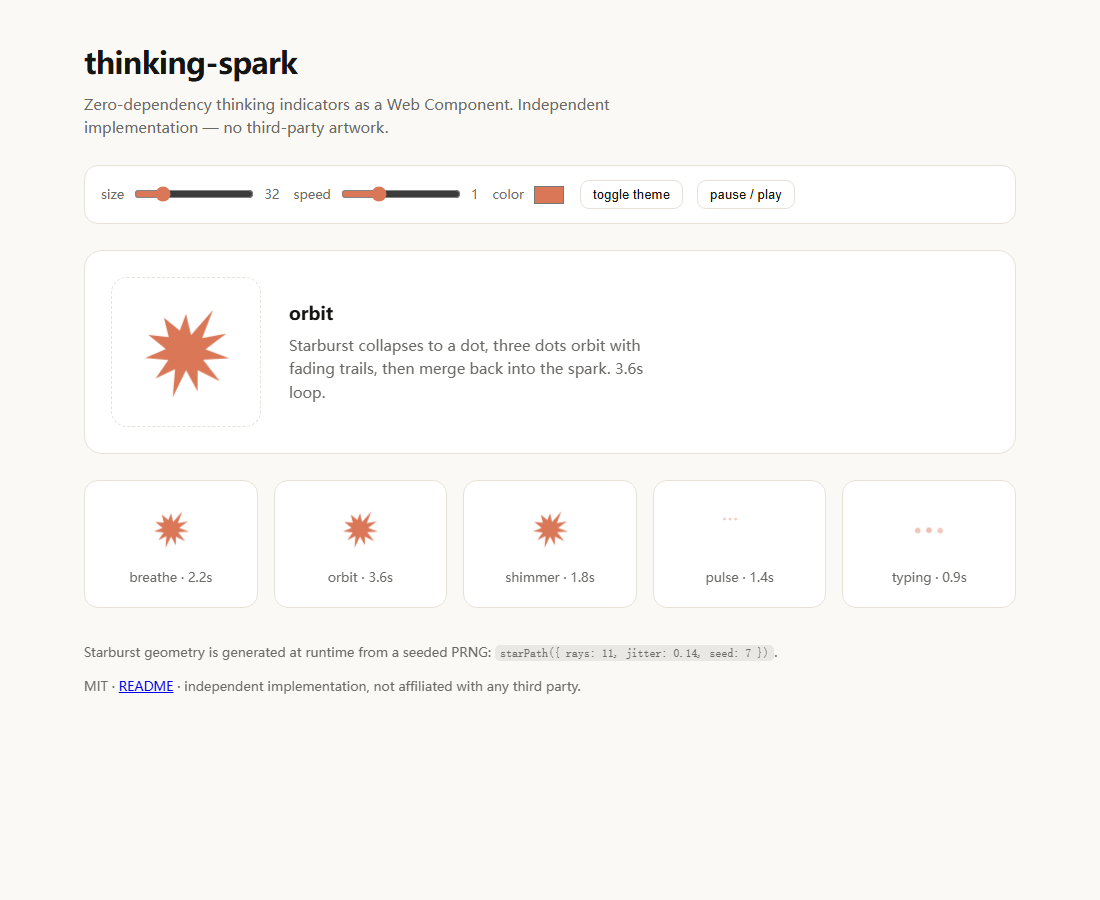
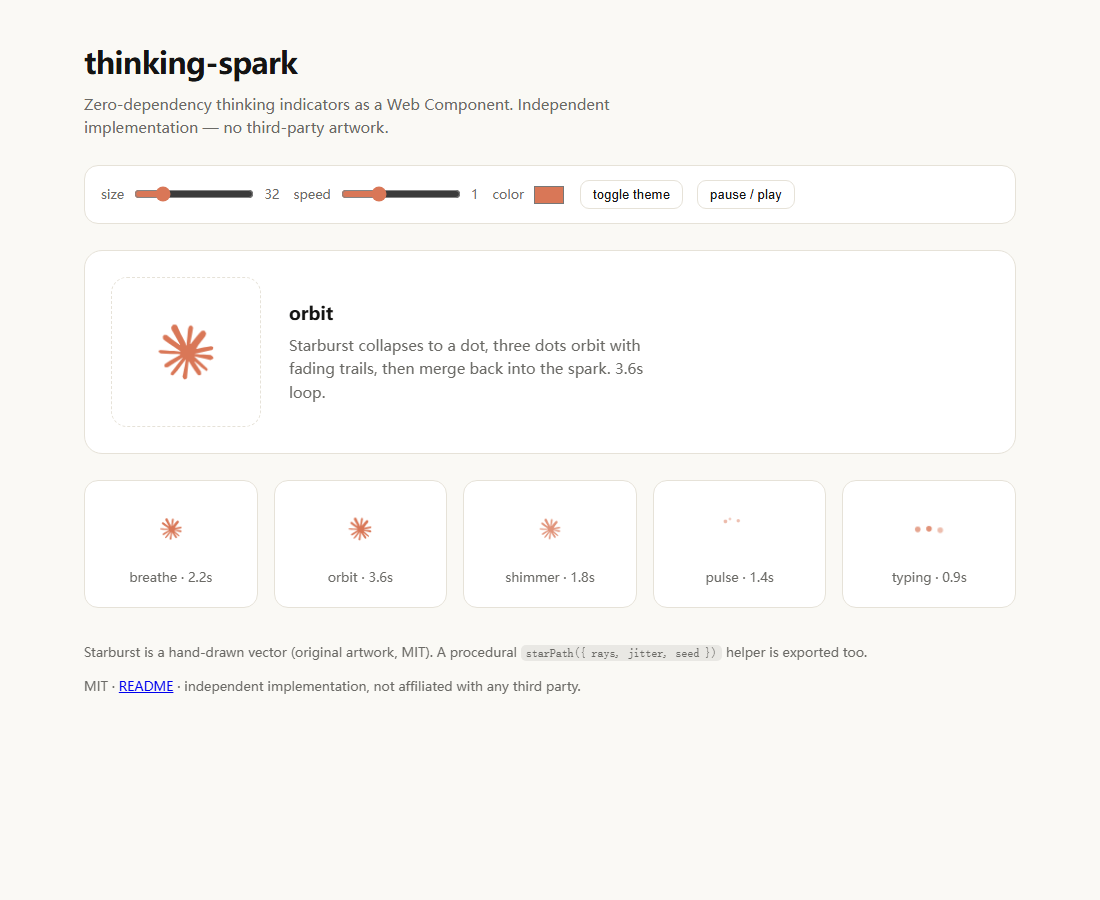
feat: use hand-drawn starburst and original orbit timeline

diff --git a/src/thinking-spark.js b/src/thinking-spark.js
@@ -1,11 +1,14 @@
 /**
  * <thinking-spark> — zero-dependency animated "thinking" indicators.
+ * Starburst artwork: original vector by the thinking-spark author (MIT).
  * Independent implementation. Not affiliated with Anthropic.
- * MIT License.
  */
 
 const VARIANTS = ["breathe", "orbit", "shimmer", "pulse", "typing"];
 const SVG_NS = "http://www.w3.org/2000/svg";
+
+// Hand-drawn 30-unit starburst, placed with scale(3.05) translate(-12 -12) at (64,64).
+const DRAWN_STAR = "m4.7144 15.9555 4.7174-2.6471.079-.2307-.079-.1275h-.2307l-.7893-.0486-2.6956-.0729-2.3375-.0971-2.2646-.1214-.5707-.1215-.5343-.7042.0546-.3522.4797-.3218.686.0608 1.5179.1032 2.2767.1578 1.6514.0972 2.4468.255h.3886l.0546-.1579-.1336-.0971-.1032-.0972L6.973 9.8356l-2.55-1.6879-1.3356-.9714-.7225-.4918-.3643-.4614-.1578-1.0078.6557-.7225.8803.0607.2246.0607.8925.686 1.9064 1.4754 2.4893 1.8336.3643.3035.1457-.1032.0182-.0728-.164-.2733-1.3539-2.4467-1.445-2.4893-.6435-1.032-.17-.6194c-.0607-.255-.1032-.4674-.1032-.7285L6.287.1335 6.6997 0l.9957.1336.419.3642.6192 1.4147 1.0018 2.2282 1.5543 3.0296.4553.8985.2429.8318.091.255h.1579v-.1457l.1275-1.706.2368-2.0947.2307-2.6957.0789-.7589.3764-.9107.7468-.4918.5828.2793.4797.686-.0668.4433-.2853 1.8517-.5586 2.9021-.3643 1.9429h.2125l.2429-.2429.9835-1.3053 1.6514-2.0643.7286-.8196.85-.9046.5464-.4311h1.0321l.759 1.1293-.34 1.1657-1.0625 1.3478-.8804 1.1414-1.2628 1.7-.7893 1.36.0729.1093.1882-.0183 2.8535-.607 1.5421-.2794 1.8396-.3157.8318.3886.091.3946-.3278.8075-1.967.4857-2.3072.4614-3.4364.8136-.0425.0304.0486.0607 1.5482.1457.6618.0364h1.621l3.0175.2247.7892.522.4736.6376-.079.4857-1.2142.6193-1.6393-.3886-3.825-.9107-1.3113-.3279h-.1822v.1093l1.0929 1.0686 2.0035 1.8092 2.5075 2.3314.1275.5768-.3218.4554-.34-.0486-2.2039-1.6575-.85-.7468-1.9246-1.621h-.1275v.17l.4432.6496 2.3436 3.5214.1214 1.0807-.17.3521-.6071.2125-.6679-.1214-1.3721-1.9246L14.38 17.959l-1.1414-1.9428-.1397.079-.674 7.2552-.3156.3703-.7286.2793-.6071-.4614-.3218-.7468.3218-1.4753.3886-1.9246.3157-1.53.2853-1.9004.17-.6314-.0121-.0425-.1397.0182-1.4328 1.9672-2.1796 2.9446-1.7243 1.8456-.4128.164-.7164-.3704.0667-.6618.4008-.5889 2.386-3.0357 1.4389-1.882.929-1.0868-.0062-.1579h-.0546l-6.3385 4.1164-1.1293.1457-.4857-.4554.0608-.7467.2307-.2429 1.9064-1.3114Z";
 
 function mulberry32(seed) {
   let a = seed >>> 0;
@@ -17,15 +20,6 @@ function mulberry32(seed) {
   };
 }
 
-/**
- * Build a procedural starburst path (100x100 box, centred at 50,50).
- * @param {object} [opts]
- * @param {number} [opts.rays=11]     number of long rays
- * @param {number} [opts.inner=0.46]  inner radius ratio
- * @param {number} [opts.jitter=0.14] length jitter (0 keeps it perfectly regular)
- * @param {number} [opts.seed=7]      PRNG seed
- * @param {number} [opts.outer=46]    outer radius
- */
 export function starPath(opts = {}) {
   const rays = opts.rays == null ? 11 : opts.rays;
   const inner = opts.inner == null ? 0.46 : opts.inner;
@@ -49,14 +43,11 @@ function el(name, attrs) {
   return node;
 }
 
-function arcPath(fromDeg, toDeg, radius) {
-  const rad = function (d) { return ((d - 90) * Math.PI) / 180; };
-  const x1 = 50 + Math.cos(rad(fromDeg)) * radius;
-  const y1 = 50 + Math.sin(rad(fromDeg)) * radius;
-  const x2 = 50 + Math.cos(rad(toDeg)) * radius;
-  const y2 = 50 + Math.sin(rad(toDeg)) * radius;
-  const large = Math.abs(toDeg - fromDeg) > 180 ? 1 : 0;
-  return "M" + x1.toFixed(2) + " " + y1.toFixed(2) + "A" + radius + " " + radius + " 0 " + large + " 1 " + x2.toFixed(2) + " " + y2.toFixed(2);
+const KEY_TIMES = [0, 0.08, 0.12, 0.2, 0.245, 0.27, 0.34, 0.72, 0.78, 0.815, 0.84, 0.91, 0.97, 1];
+const ORBIT_DUR = 3600;
+
+function keys(values, render) {
+  return values.map(function (v, i) { return Object.assign({ offset: KEY_TIMES[i] }, render(v)); });
 }
 
 const STYLE = [
@@ -73,8 +64,8 @@ const STYLE = [
   ":host([hidden]) { display: none; }",
   "svg { display: block; width: 100%; height: 100%; overflow: visible; }",
   ".fill { fill: currentColor; }",
-  ".stroke { fill: none; stroke: currentColor; stroke-linecap: round; }",
-  "[transform-box] { transform-box: view-box; transform-origin: 50% 50%; }",
+  ".stroke-tail { fill: none; stroke: url(#ts-tail); stroke-width: 4.5; stroke-linecap: round; opacity: 0.86; }",
+  ".spin, .grow, .star { transform-box: view-box; transform-origin: 64px 64px; }",
   ".hide { display: none; }",
 ].join("\n");
 
@@ -100,31 +91,20 @@ class ThinkingSpark extends HTMLElementBase {
     const n = Number(this.getAttribute("speed"));
     return Number.isFinite(n) && n > 0 ? n : 1;
   }
-  get paused() {
-    return this.hasAttribute("paused");
-  }
+  get paused() { return this.hasAttribute("paused"); }
 
   connectedCallback() {
     if (!this._ready) this._build();
     this._applyAttrs();
     this._play();
   }
-
-  disconnectedCallback() {
-    this._stop();
-  }
+  disconnectedCallback() { this._stop(); }
 
   attributeChangedCallback(name) {
     if (!this._ready) return;
-    if (name === "variant") {
-      this._applyAttrs();
-      this._play();
-      return;
-    }
+    if (name === "variant") { this._applyAttrs(); this._play(); return; }
     this._applyAttrs();
-    if (name === "paused") {
-      for (const a of this._anims) this.paused ? a.pause() : a.play();
-    }
+    if (name === "paused") for (const a of this._anims) this.paused ? a.pause() : a.play();
   }
 
   _build() {
@@ -132,40 +112,54 @@ class ThinkingSpark extends HTMLElementBase {
     const style = document.createElement("style");
     style.textContent = STYLE;
 
-    const svg = el("svg", { viewBox: "0 0 100 100", role: "img", focusable: "false" });
+    const svg = el("svg", { viewBox: "0 0 128 128", role: "img", focusable: "false" });
     this._svg = svg;
 
-    const star = el("g", { "class": "star", "transform-box": "fill-box" });
-    star.appendChild(el("path", { "class": "fill", d: starPath({ seed: 7 }) }));
+    const defs = el("defs");
+    const grad = el("linearGradient", { id: "ts-tail", x1: -18, y1: -11, x2: 0, y2: -21, gradientUnits: "userSpaceOnUse" });
+    grad.appendChild(el("stop", { offset: 0, "stop-color": "currentColor", "stop-opacity": 0 }));
+    grad.appendChild(el("stop", { offset: 0.55, "stop-color": "currentColor", "stop-opacity": 0.21 }));
+    grad.appendChild(el("stop", { offset: 1, "stop-color": "currentColor", "stop-opacity": 0.72 }));
+    defs.appendChild(grad);
+    svg.appendChild(defs);
+
+    const star = el("g", { "class": "star" });
+    const starInner = el("g", { transform: "translate(64 64)" });
+    starInner.appendChild(el("path", { "class": "fill", d: DRAWN_STAR, transform: "scale(3.05) translate(-12 -12)" }));
+    star.appendChild(starInner);
     this._star = star;
 
-    const ring = el("g", { "class": "ring", "transform-box": "fill-box" });
+    const dot = el("circle", { "class": "fill", cx: 64, cy: 64, r: 4 });
+    this._dot = dot;
+
+    const ring = el("g", { "class": "ring" });
     for (let i = 0; i < 12; i++) {
       const a = (i / 12) * Math.PI * 2;
-      ring.appendChild(el("circle", { "class": "fill", cx: (50 + Math.cos(a) * 39).toFixed(2), cy: (50 + Math.sin(a) * 39).toFixed(2), r: 2.1 }));
+      ring.appendChild(el("circle", { "class": "fill", cx: (64 + Math.cos(a) * 50).toFixed(2), cy: (64 + Math.sin(a) * 50).toFixed(2), r: 2.7 }));
     }
     this._ring = ring;
 
-    const orbit = el("g", { "class": "orbit", "transform-box": "fill-box" });
+    const orbit = el("g", { "class": "orbit" });
+    const grow = el("g", { "class": "grow" });
+    const spin = el("g", { "class": "spin" });
     for (let i = 0; i < 3; i++) {
-      const a0 = i * 120;
-      orbit.appendChild(el("path", { "class": "stroke tail", d: arcPath(a0 - 64, a0 - 6, 34), "stroke-width": 3, opacity: 0.35 }));
+      const arm = el("g", { transform: "translate(64 64) rotate(" + i * 120 + ")" });
+      arm.appendChild(el("path", { "class": "stroke-tail", d: "M -17.9,-10.7 A 20.7,20.7 0 0 1 0,-20.7" }));
+      arm.appendChild(el("circle", { "class": "fill", cx: 0, cy: -20.7, r: 4.2 }));
+      spin.appendChild(arm);
     }
-    for (let i = 0; i < 3; i++) {
-      const a = ((i * 120 - 90) * Math.PI) / 180;
-      orbit.appendChild(el("circle", { "class": "fill odot", cx: (50 + Math.cos(a) * 34).toFixed(2), cy: (50 + Math.sin(a) * 34).toFixed(2), r: 5.4 }));
-    }
+    grow.appendChild(spin);
+    orbit.appendChild(grow);
     this._orbit = orbit;
-
-    const dot = el("circle", { "class": "fill dot", cx: 50, cy: 50, r: 9 });
-    this._dot = dot;
+    this._grow = grow;
+    this._spin = spin;
 
     const pulse = el("g", { "class": "pulse" });
-    for (let i = 0; i < 3; i++) pulse.appendChild(el("circle", { "class": "fill pdot", cx: 22 + i * 28, cy: 50, r: 7 }));
+    for (let i = 0; i < 3; i++) pulse.appendChild(el("circle", { "class": "fill pdot", cx: 28 + i * 36, cy: 64, r: 9 }));
     this._pulse = pulse;
 
     const typing = el("g", { "class": "typing" });
-    for (let i = 0; i < 3; i++) typing.appendChild(el("circle", { "class": "fill tdot", cx: 22 + i * 28, cy: 54, r: 7 }));
+    for (let i = 0; i < 3; i++) typing.appendChild(el("circle", { "class": "fill tdot", cx: 28 + i * 36, cy: 69, r: 9 }));
     this._typing = typing;
 
     svg.append(star, ring, orbit, dot, pulse, typing);
@@ -188,20 +182,16 @@ class ThinkingSpark extends HTMLElementBase {
       case "shimmer": show.star = show.ring = true; break;
       case "pulse": show.pulse = true; break;
       case "typing": show.typing = true; break;
-      default: show.star = true; break;
+      default: show.star = show.dot = true; break;
     }
     const map = [["star", this._star], ["ring", this._ring], ["orbit", this._orbit], ["dot", this._dot], ["pulse", this._pulse], ["typing", this._typing]];
     for (const pair of map) pair[1].classList.toggle("hide", !show[pair[0]]);
   }
 
-  _stop() {
-    for (const a of this._anims) a.cancel();
-    this._anims = [];
-  }
+  _stop() { for (const a of this._anims) a.cancel(); this._anims = []; }
 
   _animate(node, keyframes, options) {
-    const opts = Object.assign({ easing: "ease-in-out" }, options);
-    const anim = node.animate(keyframes, opts);
+    const anim = node.animate(keyframes, Object.assign({ easing: "linear" }, options));
     anim.playbackRate = this.speed;
     if (this.paused) anim.pause();
     this._anims.push(anim);
@@ -214,43 +204,25 @@ class ThinkingSpark extends HTMLElementBase {
     const reduce = typeof matchMedia === "function" && matchMedia("(prefers-reduced-motion: reduce)").matches;
     if (reduce) return;
     const loop = function (ms) { return { duration: ms, iterations: Infinity }; };
-    const T = function (s) { return "scale(" + s + ")"; };
+    const S = function (v) { return "scale(" + v + ")"; };
 
     switch (this.variant) {
       case "orbit": {
-        const D = 3600;
-        this._animate(this._star, [
-          { transform: T(1), opacity: 1, offset: 0 },
-          { transform: T(0.34), opacity: 1, offset: 0.1 },
-          { transform: T(0.3), opacity: 0, offset: 0.16 },
-          { transform: T(0.3), opacity: 0, offset: 0.8 },
-          { transform: T(0.34), opacity: 1, offset: 0.86 },
-          { transform: T(1), opacity: 1, offset: 1 },
-        ], loop(D));
-        this._animate(this._dot, [
-          { transform: T(0.2), opacity: 0, offset: 0 },
-          { transform: T(1), opacity: 1, offset: 0.1 },
-          { transform: T(1), opacity: 1, offset: 0.78 },
-          { transform: T(0.2), opacity: 0, offset: 0.86 },
-          { transform: T(0.2), opacity: 0, offset: 1 },
-        ], loop(D));
-        this._animate(this._orbit, [
-          { transform: "rotate(0deg) " + T(0.25), opacity: 0, offset: 0 },
-          { transform: "rotate(0deg) " + T(1), opacity: 0, offset: 0.12 },
-          { transform: "rotate(-40deg) " + T(1), opacity: 1, offset: 0.2 },
-          { transform: "rotate(250deg) " + T(1), opacity: 1, offset: 0.72 },
-          { transform: "rotate(300deg) " + T(0.25), opacity: 0, offset: 0.82 },
-          { transform: "rotate(300deg) " + T(0.25), opacity: 0, offset: 1 },
-        ], Object.assign({}, loop(D), { easing: "linear" }));
+        this._animate(this._star, keys([1, 1, 1.028, 0.52, 0.1, 0.028, 0.028, 0.028, 0.028, 0.028, 0.1, 0.73, 1, 1], function (v) { return { transform: S(v) }; }), loop(ORBIT_DUR));
+        this._animate(this._star, keys([1, 1, 1, 1, 1, 0, 0, 0, 0, 0, 0.9, 1, 1, 1], function (v) { return { opacity: v }; }), loop(ORBIT_DUR));
+        this._animate(this._dot, keys([0, 0, 0, 0, 1, 1, 0, 0, 0, 1, 1, 0, 0, 0], function (v) { return { opacity: v }; }), loop(ORBIT_DUR));
+        this._animate(this._grow, keys([0, 0, 0, 0, 0, 0.02, 1, 1, 0.65, 0.02, 0, 0, 0, 0], function (v) { return { transform: S(v) }; }), loop(ORBIT_DUR));
+        this._animate(this._orbit, keys([0, 0, 0, 0, 0, 0, 1, 1, 1, 0, 0, 0, 0, 0], function (v) { return { opacity: v }; }), loop(ORBIT_DUR));
+        this._animate(this._spin, keys([0, 0, 0, 0, 0, 0, 24, 660, 775, 790, 790, 790, 790, 790], function (v) { return { transform: "rotate(" + v + "deg)" }; }), loop(ORBIT_DUR));
         break;
       }
       case "shimmer": {
         const D = 1800;
         this._animate(this._star, [
-          { transform: T(1), opacity: 1, offset: 0 },
-          { transform: T(0.55), opacity: 0, offset: 0.3 },
-          { transform: T(0.55), opacity: 0, offset: 0.7 },
-          { transform: T(1), opacity: 1, offset: 1 },
+          { transform: S(1), opacity: 1, offset: 0 },
+          { transform: S(0.55), opacity: 0, offset: 0.3 },
+          { transform: S(0.55), opacity: 0, offset: 0.7 },
+          { transform: S(1), opacity: 1, offset: 1 },
         ], loop(D));
         this._animate(this._ring, [
           { transform: "rotate(0deg)", opacity: 0, offset: 0 },
@@ -266,10 +238,10 @@ class ThinkingSpark extends HTMLElementBase {
         const dots = this.shadowRoot.querySelectorAll(".pdot");
         for (let i = 0; i < dots.length; i++) {
           this._animate(dots[i], [
-            { transform: T(0.5), opacity: 0.35, offset: 0 },
-            { transform: T(1), opacity: 1, offset: 0.35 },
-            { transform: T(0.5), opacity: 0.35, offset: 0.7 },
-            { transform: T(0.5), opacity: 0.35, offset: 1 },
+            { transform: S(0.5), opacity: 0.35, offset: 0 },
+            { transform: S(1), opacity: 1, offset: 0.35 },
+            { transform: S(0.5), opacity: 0.35, offset: 0.7 },
+            { transform: S(0.5), opacity: 0.35, offset: 1 },
           ], Object.assign({}, loop(1400), { delay: i * 160 }));
         }
         break;
@@ -279,7 +251,7 @@ class ThinkingSpark extends HTMLElementBase {
         for (let i = 0; i < dots.length; i++) {
           this._animate(dots[i], [
             { transform: "translateY(0px)", opacity: 0.4, offset: 0 },
-            { transform: "translateY(-7px)", opacity: 1, offset: 0.3 },
+            { transform: "translateY(-9px)", opacity: 1, offset: 0.3 },
             { transform: "translateY(0px)", opacity: 0.4, offset: 0.6 },
             { transform: "translateY(0px)", opacity: 0.4, offset: 1 },
           ], Object.assign({}, loop(900), { delay: i * 140 }));
@@ -288,9 +260,16 @@ class ThinkingSpark extends HTMLElementBase {
       }
       default: {
         this._animate(this._star, [
-          { transform: T(1), opacity: 1, offset: 0 },
-          { transform: T(0.42), opacity: 0.95, offset: 0.5 },
-          { transform: T(1), opacity: 1, offset: 1 },
+          { transform: S(1), opacity: 1, offset: 0 },
+          { transform: S(0.42), opacity: 0.95, offset: 0.5 },
+          { transform: S(1), opacity: 1, offset: 1 },
+        ], loop(2200));
+        this._animate(this._dot, [
+          { transform: S(0.4), opacity: 0, offset: 0 },
+          { transform: S(1), opacity: 0, offset: 0.35 },
+          { transform: S(1), opacity: 0.9, offset: 0.5 },
+          { transform: S(1), opacity: 0, offset: 0.65 },
+          { transform: S(0.4), opacity: 0, offset: 1 },
         ], loop(2200));
         break;
       }

diff --git a/demo/index.html b/demo/index.html
@@ -47,7 +47,7 @@
   <section class="grid" id="grid"></section>
 
   <footer>
-    <p>Starburst geometry is generated at runtime from a seeded PRNG: <code>starPath({ rays: 11, jitter: 0.14, seed: 7 })</code>.</p>
+    <p>Starburst is a hand-drawn vector (original artwork, MIT). A procedural <code>starPath({ rays, jitter, seed })</code> helper is exported too.</p>
     <p>MIT · <a href="../README.md">README</a> · independent implementation, not affiliated with any third party.</p>
   </footer>
 </main>

diff --git a/README.md b/README.md
@@ -9,7 +9,7 @@ Five variants, one tag, no build step.
 
 ![demo](docs/preview.png)
 
-> Independent implementation. Not affiliated with Anthropic. No third-party assets included.
+> Independent implementation. Not affiliated with Anthropic. The starburst is original artwork drawn by the project author.
 
 ## Variants
 
@@ -56,7 +56,7 @@ spark.setAttribute('speed', '0.8');
 spark.toggleAttribute('paused', true);
 ```
 
-The starburst geometry is available on its own:
+A procedural starburst generator is also exported if you want a different shape:
 
 ```js
 import { starPath } from 'thinking-spark/star';
